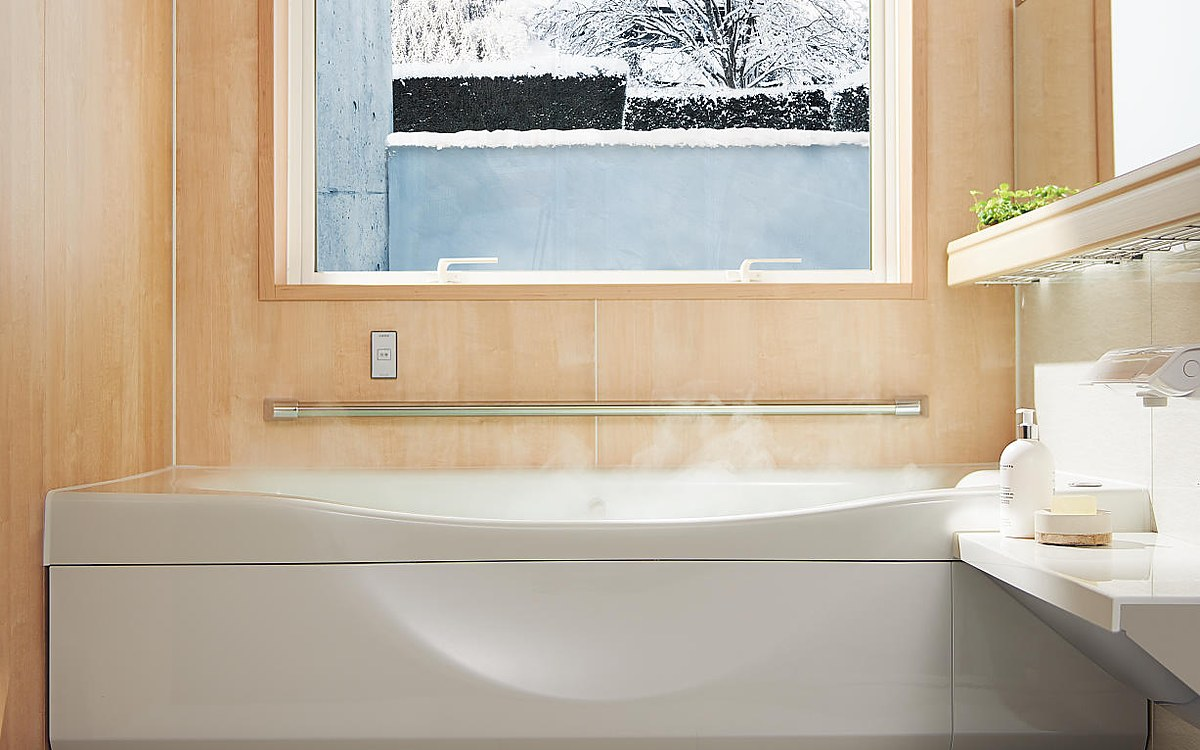
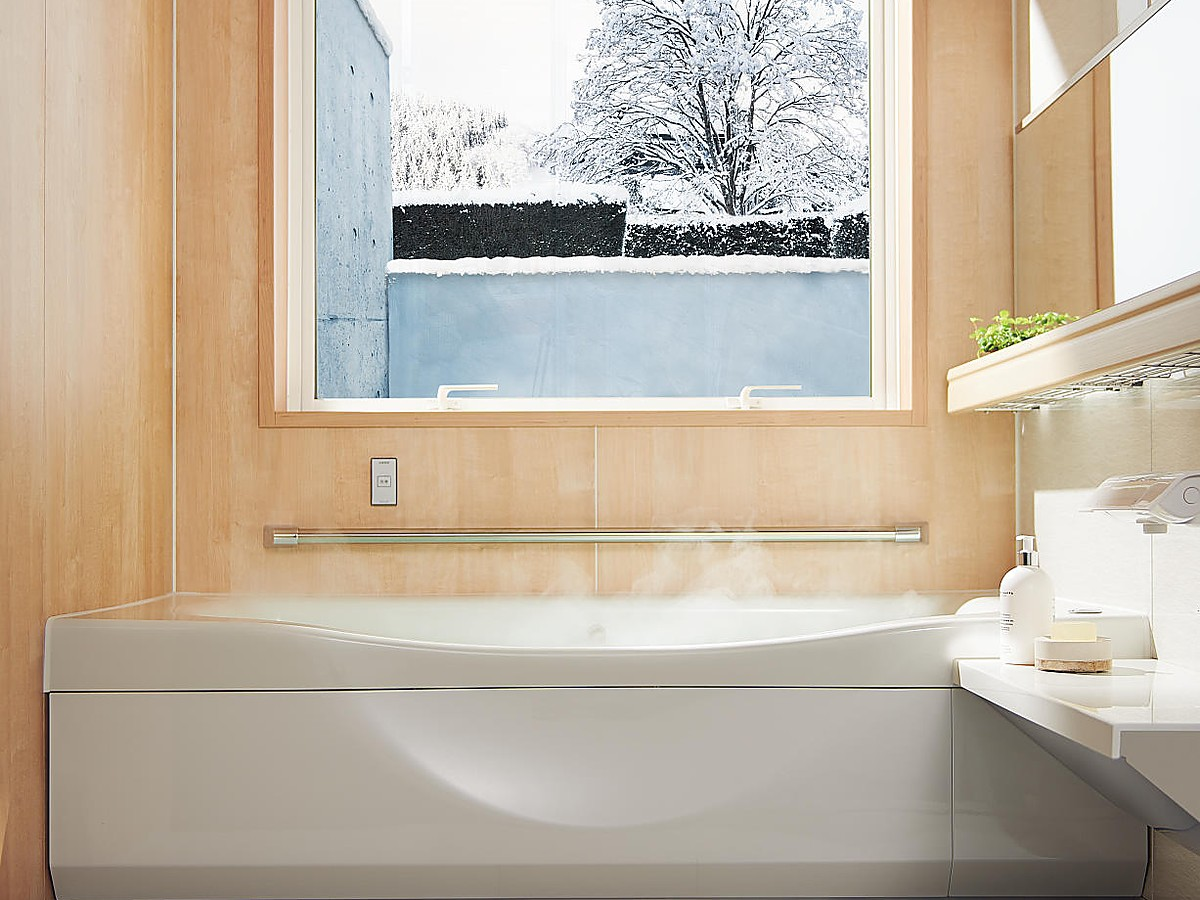
トップぺージカテゴリ写真の調整

diff --git a/index.html b/index.html
@@ -489,9 +489,9 @@
       <div class="p-price__card" data-reveal data-reveal-delay="80">
         <div class="p-price__photo">
           <picture>
-            <source srcset="./assets/img/products/v-style/main.webp" type="image/webp">
-            <img src="./assets/img/products/v-style/main.jpg" width="863" height="784"
-                 alt="システムキッチン V-style（Vスタイル）" loading="lazy" decoding="async">
+            <source srcset="./assets/img/top/price-kitchen.webp" type="image/webp">
+            <img src="./assets/img/top/price-kitchen.jpg" width="1200" height="900"
+                 alt="システムキッチン V-style（Vスタイル）の全体" loading="lazy" decoding="async">
           </picture>
         </div>
         <div class="p-price__body">
@@ -507,7 +507,7 @@
         <div class="p-price__photo">
           <picture>
             <source srcset="./assets/img/top/price-bath.webp" type="image/webp">
-            <img src="./assets/img/top/price-bath.jpg" width="1200" height="750"
+            <img src="./assets/img/top/price-bath.jpg" width="1200" height="900"
                  alt="ユニットバス（木目調の壁パネルと大きな窓のある浴室）" loading="lazy" decoding="async">
           </picture>
         </div>

diff --git a/wp/front-page.php b/wp/front-page.php
@@ -315,9 +315,9 @@ get_header();
       <div class="p-price__card" data-reveal data-reveal-delay="80">
         <div class="p-price__photo">
           <picture>
-            <source srcset="<?php echo $asset; ?>/assets/img/products/v-style/main.webp" type="image/webp">
-            <img src="<?php echo $asset; ?>/assets/img/products/v-style/main.jpg" width="863" height="784"
-                 alt="システムキッチン V-style（Vスタイル）" loading="lazy" decoding="async">
+            <source srcset="<?php echo $asset; ?>/assets/img/top/price-kitchen.webp" type="image/webp">
+            <img src="<?php echo $asset; ?>/assets/img/top/price-kitchen.jpg" width="1200" height="900"
+                 alt="システムキッチン V-style（Vスタイル）の全体" loading="lazy" decoding="async">
           </picture>
         </div>
         <div class="p-price__body">
@@ -333,7 +333,7 @@ get_header();
         <div class="p-price__photo">
           <picture>
             <source srcset="<?php echo $asset; ?>/assets/img/top/price-bath.webp" type="image/webp">
-            <img src="<?php echo $asset; ?>/assets/img/top/price-bath.jpg" width="1200" height="750"
+            <img src="<?php echo $asset; ?>/assets/img/top/price-bath.jpg" width="1200" height="900"
                  alt="ユニットバス（木目調の壁パネルと大きな窓のある浴室）" loading="lazy" decoding="async">
           </picture>
         </div>
